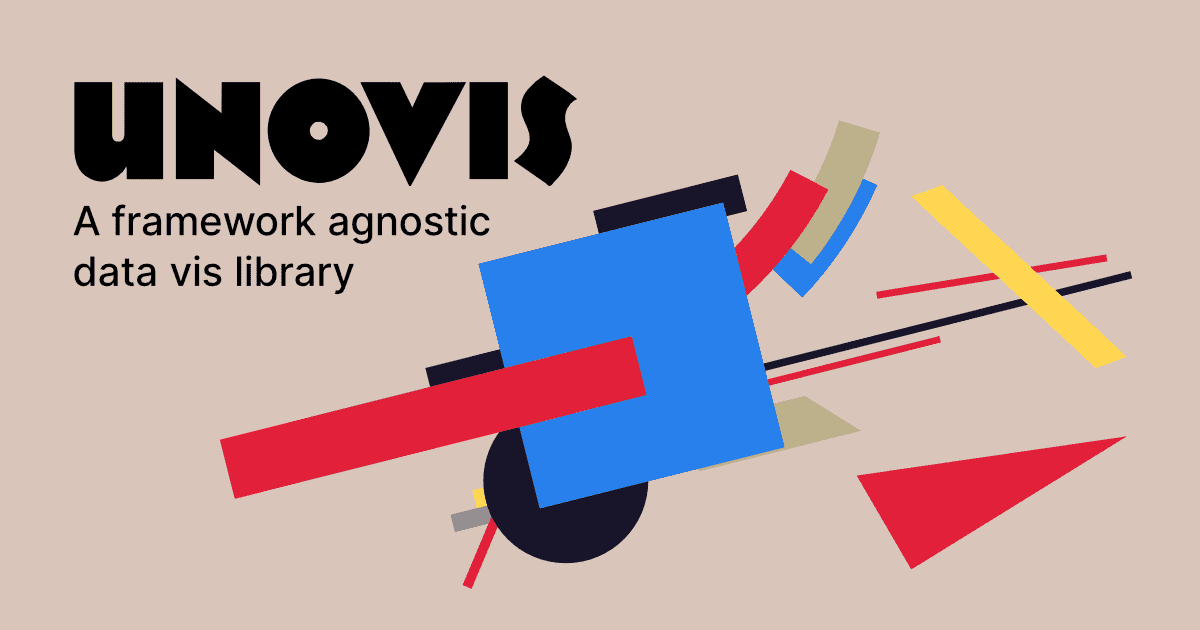
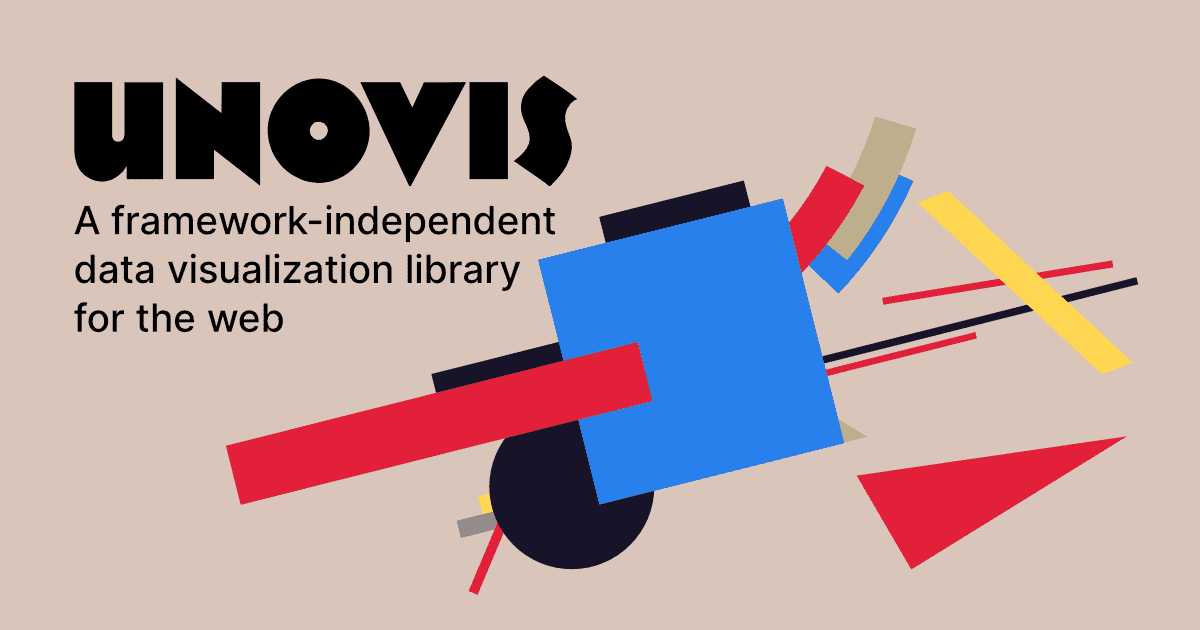
Website: Using the term "independent" instead of "agnostic"

Changed region(s): [[0.0617, 0.181, 0.9558, 0.9349], [0.0617, 0.4825, 0.2467, 0.5429], [0.8942, 0.573, 0.9558, 0.6032]]

diff --git a/packages/website/src/pages/index.tsx b/packages/website/src/pages/index.tsx
@@ -20,7 +20,7 @@ export default function Home (): JSX.Element {
   const example = ChartExample
   return (
     <Layout
-      description="A framework agnostic data vis library">
+      description="A framework-independent data vis library for the web">
       <HomepageHeader />
       <main>
         <HomepageFeatures />
